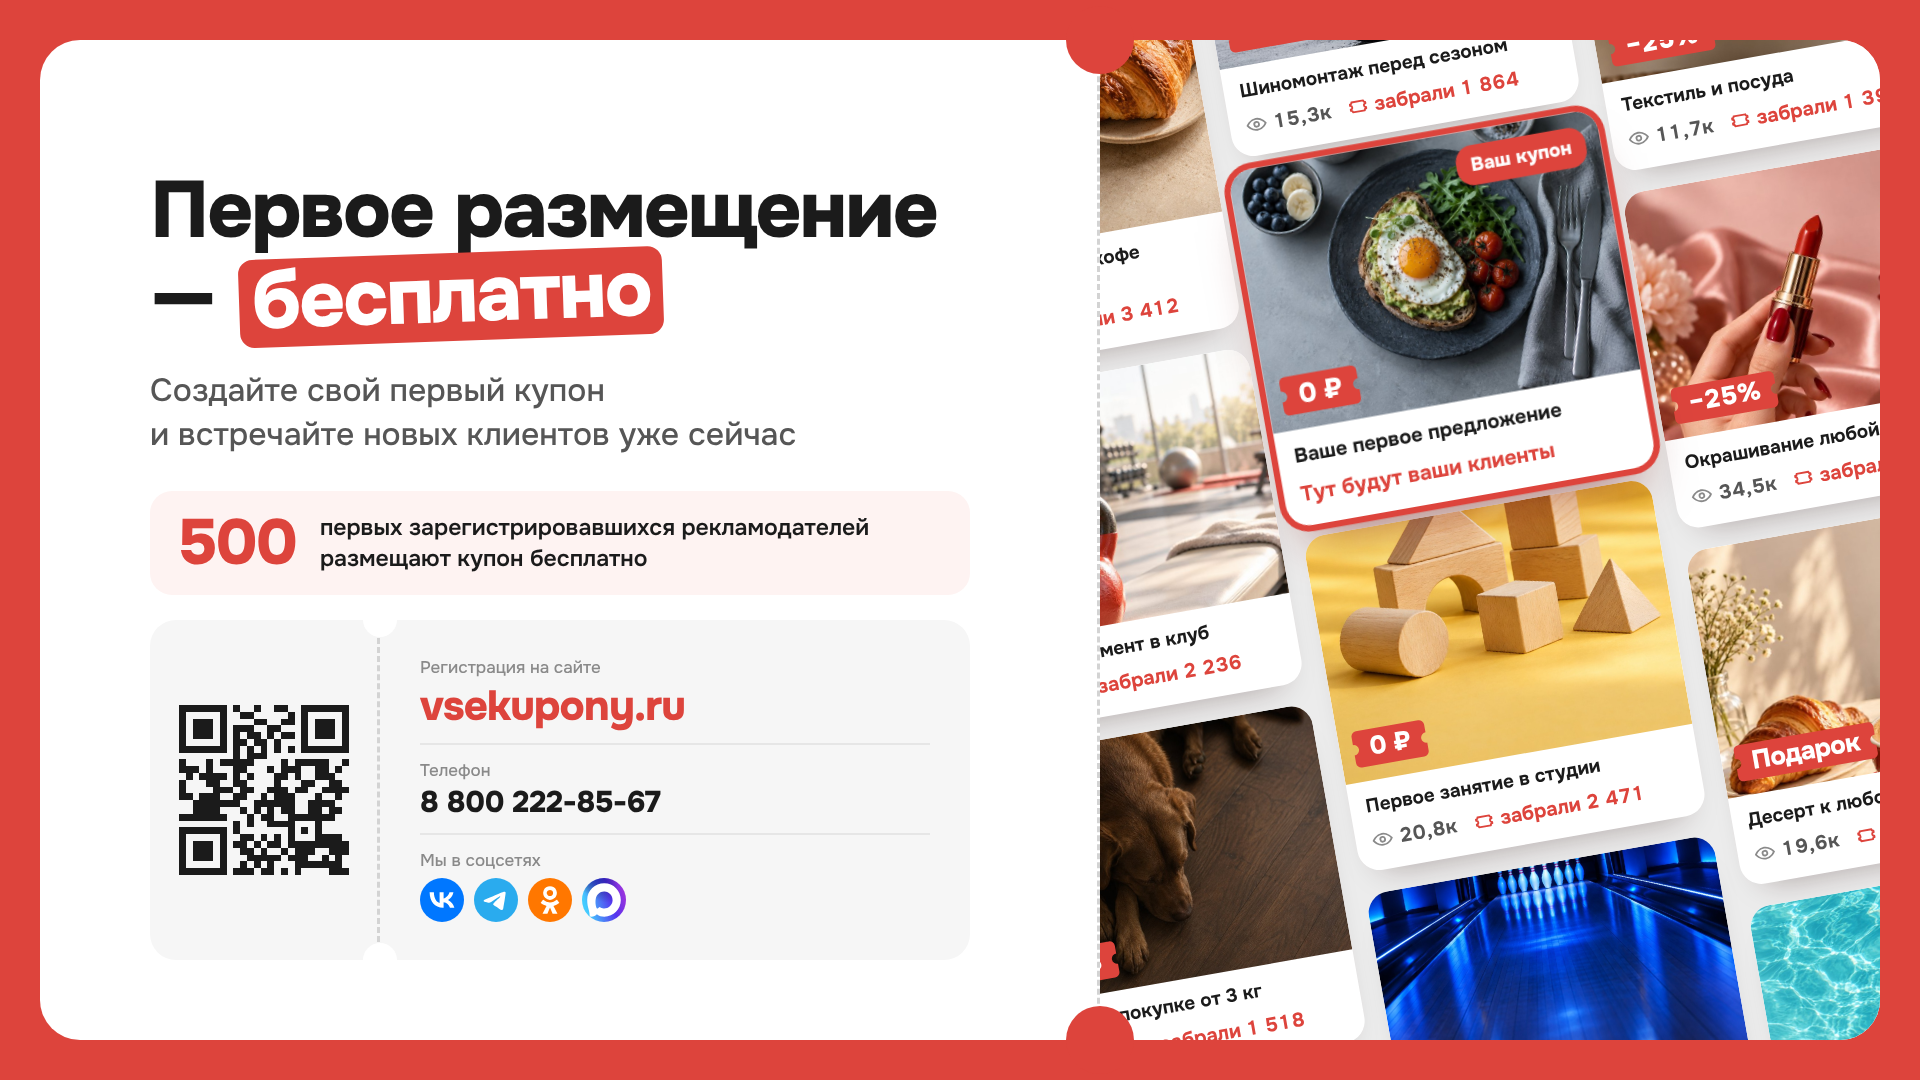
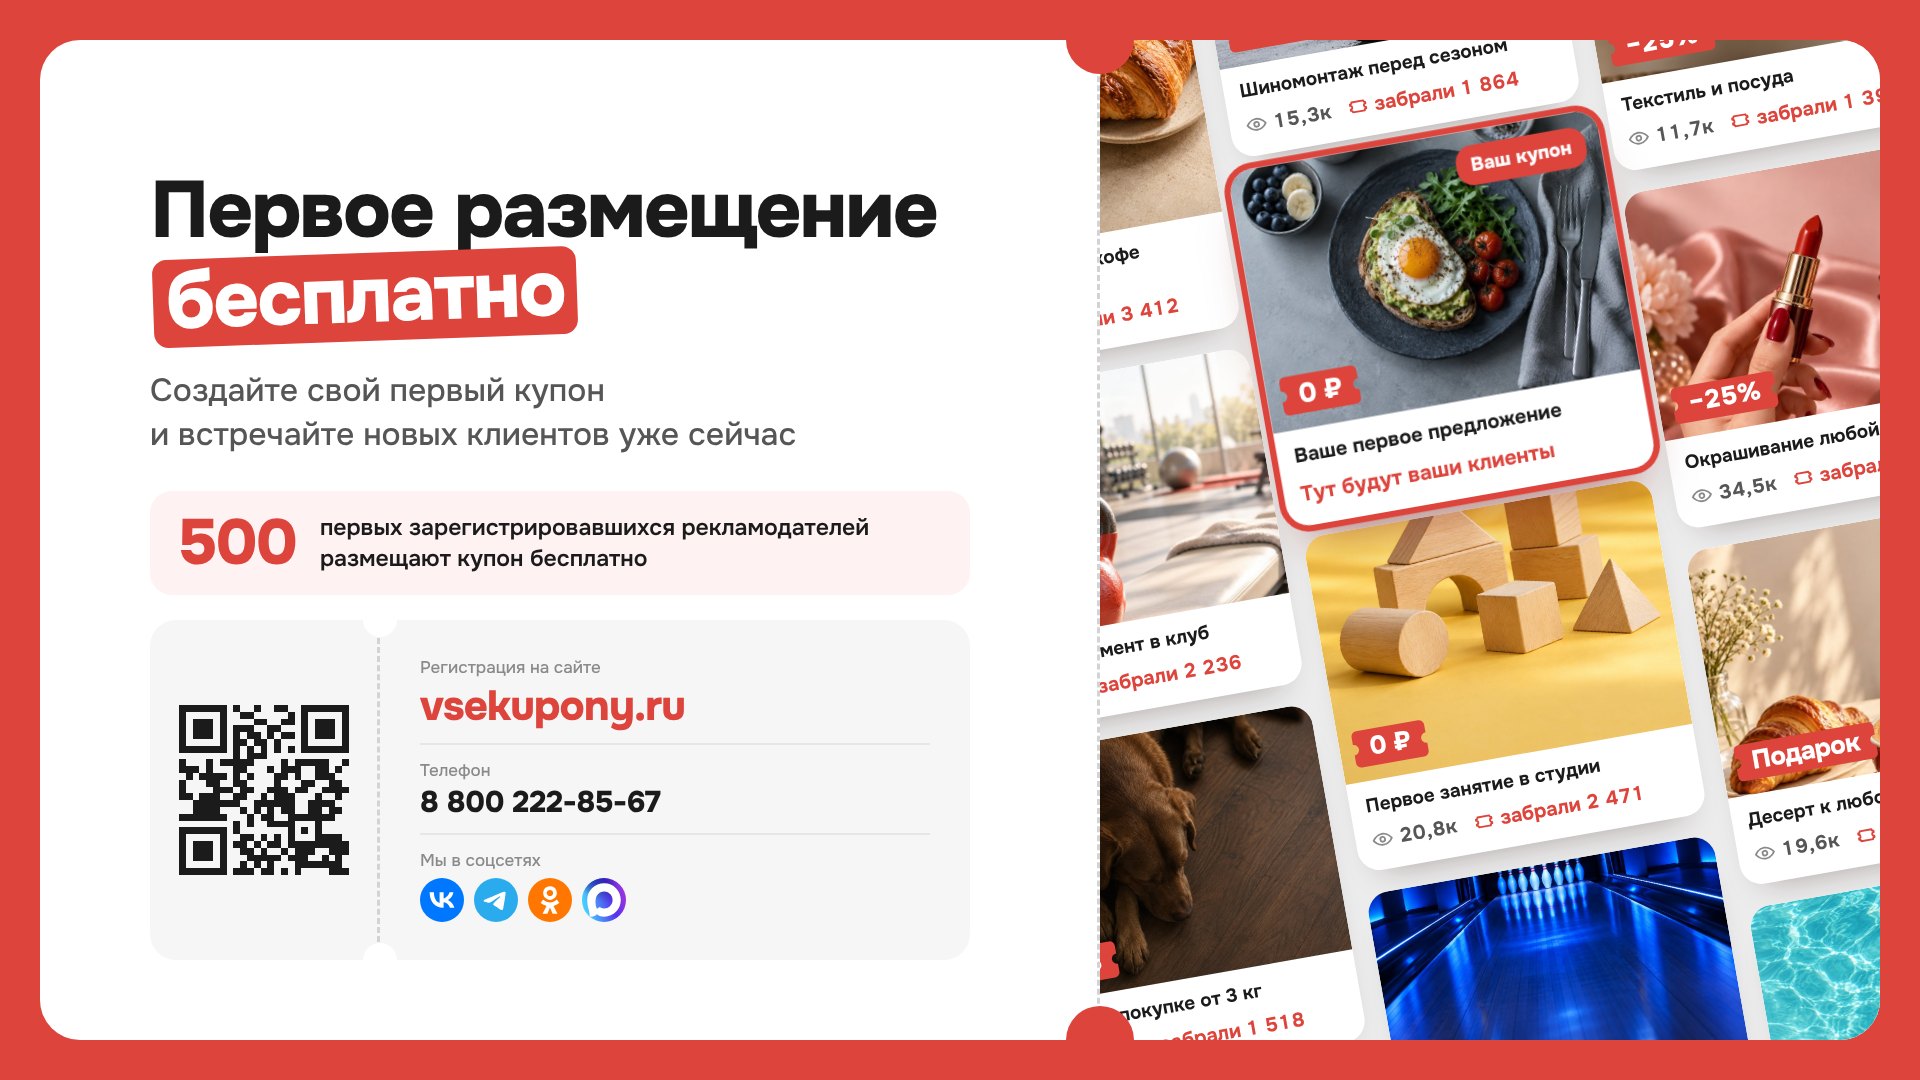
Презентация: заголовок последнего слайда без тире
Claude-Session: https://claude.ai/code/session_01HQTTQEBkqu3b2tPP56NRpL

Changed region(s): [[0.0625, 0.2139, 0.3438, 0.3361]]

diff --git a/social-kit/deck.html b/social-kit/deck.html
@@ -784,7 +784,7 @@ a{color:inherit;text-decoration:none}
   <section class="slide" id="s9">
     <div class="cpn__l cpn__l--v">
       <div class="in">
-        <h2 class="h1">Первое размещение<br>—&nbsp;<span class="city">бесплатно</span></h2>
+        <h2 class="h1">Первое размещение<br><span class="city">бесплатно</span></h2>
         <p class="sub">Создайте свой первый купон<br>и&nbsp;встречайте новых клиентов уже сейчас</p>
         <div class="free"><b>500</b><span>первых зарегистрировавшихся рекламодателей размещают купон бесплатно</span></div>
       </div>
